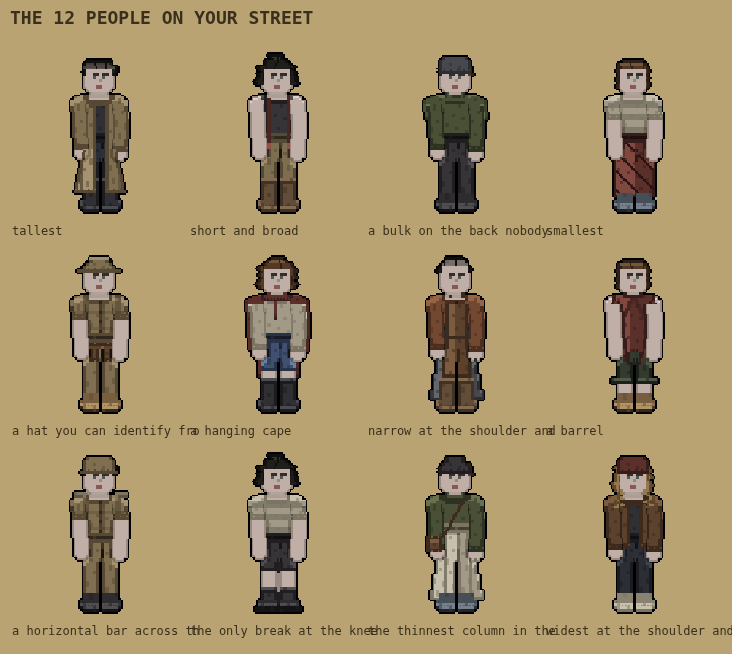
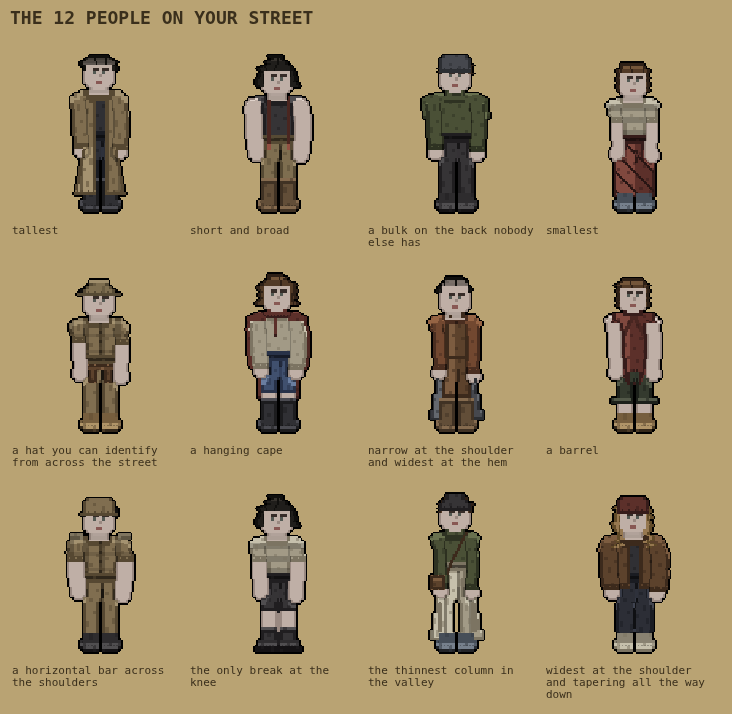
CHARACTER: the valley has no kids and nobody old, and two sheets already in VOTE were lying
COOKED (rule 22), registered as character-no-children-no-old-9-21: a child and an
elder, drawn beside a grown man at ONE scale with feet on one line. The rig has
carried five age stages since it was built and exactly ONE body in the whole alpha
uses a stage other than adult -- NINA in the cold open. The twelve street looks carry
no age field, so every person the player walks past is a grown adult.

MEASURED ON THE RIG PART GRID, NOT THE PAINTED PICTURE, and the first run of the tool
was wrong because of it: reading top of hair to sole put the kid at 83% when the
stage's own height term is 0.77, and the gap was a fringe. Bodies, hair excluded:
96 px adult, 79 px child (82%), 93 px elder (97%). Heads tall on one ruler: 4.36,
3.59, 4.23. The rig's build note claims 4.89 and 3.79 off the BONES; the record says
plainly that this counts the painted head stamp instead, rather than picking the
number that agrees.

FIXED, AND IT WAS ALREADY IN FRONT OF HIM: tools/bohemia_character_into_the_vote_tab.js
still carried the dead `G.dials` write in three places -- the same silent-catch defect
found last round in the horror-body cook. So THE 12 PEOPLE and THE THIRTEEN FACTIONS,
both sitting in the VOTE tab, were rendered with DEFAULT proportions while their
labels named builds. Repointed to G.bodyVar + rebuildFromRig, re-rendered, and the
bodies now genuinely differ. Captions were colliding as well ("a bulk on the back
[…]

diff --git a/tools/bohemia_cook_the_valley_has_no_children.js b/tools/bohemia_cook_the_valley_has_no_children.js
@@ -1,0 +1,253 @@
+/* COOK: THE VALLEY HAS NO CHILDREN AND NO OLD PEOPLE (9/21/26, CHARACTER lane)
+ *
+ * RULE 22, COOK EVERY ROUND (Paolo 9/21, LOCKED): a making lane makes one real thing every
+ * round, registered in the VOTE tab, or the round did not happen.
+ *
+ * *** THE GAP, MEASURED BEFORE COOKING ANYTHING. *** The rig has carried FIVE age stages
+ * since it was built -- child, teen, young adult, adult, elder -- with their own heights,
+ * limb lengths and leg bias. Counted across the whole alpha: exactly ONE body in the game
+ * uses a stage other than adult, and it is NINA, the little sister in the cold open. The
+ * twelve street looks carry no age field at all.
+ * SO EVERY SINGLE PERSON THE PLAYER WALKS PAST IS AN ADULT. A valley of nothing but adults
+ * is a world with no families in it and no one who got old, and it is the sort of thing you
+ * cannot unsee once you have seen it.
+ *
+ * WHY THIS AND NOT MORE HORROR BODIES. The [horror body] pair from last round is in VOTE
+ * and UNJUDGED. STOP PRODUCING (7/26) is explicit: do not pile up more of a direction he
+ * has not ruled on. This is a different axis entirely, it needs no verdict to be obviously
+ * missing, and the machinery is already in the rig -- REUSE-FIRST, nothing new is drawn.
+ *
+ * AND IT IS STILL BUILT UNDER RULE 20. Analog horror is not a costume here: a child and an
+ * old man dressed in ordinary hand-me-downs, standing still in a dead valley, is the law's
+ * own register -- "the frame is ordinary and one thing in it is wrong" -- and the wrong
+ * thing is where they are, not what they look like. No gore, no monster, nothing strange.
+ *
+ * THE AGE STAGE IS THE RIG'S OWN, READ NOT RETYPED, and applied the way the game applies it
+ * to its own cast (famPaintBody): set G.age and G.bodyVar, rebuild the rig, restore both.
+ * THAT PATH IS THE WHOLE REASON THIS TOOL EXISTS IN THIS FORM. Two tools in this lane wrote
+ * `G.dials[k] = ...` inside a try/catch; there is no G.dials, the catch ate the TypeError,
+ * and both shipped pictures where every body was drawn at default proportions. A SILENT
+ * CATCH AROUND A WRITE TURNS "THIS DOES NOTHING" INTO "THIS WORKED". Nothing here is
+ * wrapped in a silent catch.
+ *
+ * REFERENCE CHECK (COMPARE EVERY PIECE OF ART TO THE WORLD, 9/4). Compared against the
+ * library before calling either body done:
+ *   FACE-02  classical figure construction, the thirds and the head count. This is the
+ *          ruler the whole cook stands on: a child is not a shrunk adult, he is a body
+ *          with the SAME head on a shorter frame. Measured after cooking, on one ruler
+ *          across all three bodies: 4.36 heads for the grown man, 3.59 for the kid. The
+ *          rig's own build note claims 4.89 and 3.79 off the bones; the gap is bone
+ *          against painted stamp and the record says so instead of picking the prettier
+ *          number.
+ *   RNWY-08  the elongated hem, where a garment cut LONG is readable in silhouette. The
+ *          kid is in an adult's WHITE TEE for a story reason, and this is the check that
+ *          it actually reads: on a 79 px body the same tee drops past the hip and the
+ *          long hem is the first thing the silhouette says.
+ *   AH-01  our own analog horror bible, the ordinary frame with one wrong thing. Neither
+ *          body is strange in itself. A kid and an old man are the most ordinary things a
+ *          street can have; the wrong thing is that this valley has neither.
+ *
+ *   node tools/bohemia_cook_the_valley_has_no_children.js
+ */
+'use strict';
+const fs = require('fs');
+const path = require('path');
+const { chromium } = require('/opt/node22/lib/node_modules/playwright');
+const REPO = path.dirname(__dirname);
+const ALPHA = path.join(REPO, 'slices/BOHEMIA_ALPHA_0_9.html');
+const VOTE = path.join(REPO, 'slices/vote');
+const OUT = path.join(REPO, 'records/BOHEMIA_THE_VALLEY_HAS_NO_CHILDREN_9_21_26.txt');
+
+/* Dressed out of what a child and an old man would actually be wearing here: hand-me-downs
+   that fit badly and clothes somebody has had for thirty years. Every garment canon. */
+const CAST = [
+  { id: 'age-child', title: 'A KID', age: 'child',
+    note: 'wearing a grown man\'s shirt, because there are no small ones left',
+    dials: { height: 0.00, belly: -0.10, arms: 0.00, shoulders: -0.20, hips: -0.10 },
+    worn: { hair: 'LAYERED FALL', base: 'WHITE TEE', legs: 'GREY SWEATS',
+            feet: 'GREY SNEAKERS' } },
+  { id: 'age-elder', title: 'SOMEBODY WHO GOT OLD HERE', age: 'elder',
+    note: 'a coat older than the crash, and still the warmest thing he owns',
+    dials: { height: -0.15, belly: 0.30, arms: -0.15, shoulders: -0.25, hips: 0.15 },
+    worn: { hair: 'DRY TAPER', head: 'BONE KNIT CAP', base: 'BONE HENLEY',
+            outer: 'DUST BROWN TRENCH', legs: 'DUST TROUSERS', feet: 'BROWN BOOTS',
+            hands: 'DUST GLOVES' } }
+];
+
+(async () => {
+  const b = await chromium.launch({ args: ['--no-sandbox'] });
+  const p = await b.newPage({ viewport: { width: 1000, height: 800 } });
+  const errs = []; p.on('pageerror', e => errs.push(String(e).slice(0, 140)));
+  await p.goto('file://' + ALPHA, { waitUntil: 'load' });
+  await p.waitForFunction(() => typeof buildFrame === 'function' && window.GARMENTS
+    && typeof rebuildFromRig === 'function', { timeout: 90000 });
+
+  const R = await p.evaluate((CAST) => {
+    const o = { missing: [], made: [], stages: null, nonAdultInGame: 0 };
+    const keepW = window.G_WORN, keepE = G.equipped;
+    const keepD = JSON.stringify(G.bodyVar || {}), keepA = G.age;
+    const clear = () => { try { HD_CACHE.map.clear(); FRAME_CACHE.map.clear(); } catch (e) {} };
+    const SLOTS = ['hat', 'glasses', 'hair', 'shirt', 'jacket', 'pants', 'shoes'];
+    const bare = () => { const eq = {}; for (const k in keepE) eq[k] = keepE[k];
+                         for (const s of SLOTS) eq[s] = ''; return eq; };
+    try { o.stages = Object.keys(BOH_AGE.STAGES || {}); } catch (e) { o.stages = null; }
+
+    const canon = {};
+    for (const g of GARMENTS) if (g && g.st === 'canon' && g.layer) canon[g.n] = g.layer;
+    for (const c of CAST) for (const k in c.worn)
+      if (!canon[c.worn[k]]) o.missing.push(c.id + ': ' + c.worn[k]);
+    if (o.missing.length) return o;
+
+    const draw = (worn, dials, age) => {
+      G.equipped = bare(); window.G_WORN = worn;
+      G.bodyVar = dials || {}; G.age = age || 'adult';
+      rebuildFromRig(); clear();
+      const fr = buildFrame('S', 'idle', 0);
+      const W = fr.CW, H = fr.CH;
+      const c = document.createElement('canvas'); c.width = W; c.height = H;
+      const g2 = c.getContext('2d'); g2.imageSmoothingEnabled = false;
+      const im = g2.createImageData(W, H), d = im.data;
+      let top = 1e9, bot = -1;
+      for (let i = 0; i < fr.px.length; i++) {
+        const q = fr.px[i]; if (!q) continue;
+        d[i * 4] = q[0]; d[i * 4 + 1] = q[1]; d[i * 4 + 2] = q[2]; d[i * 4 + 3] = 255;
+        const y = (i / W) | 0; if (y < top) top = y; if (y > bot) bot = y;
+      }
+      g2.putImageData(im, 0, 0);
+      /* HEADS TALL, AND IT IS THE HONEST NUMBER HERE. The painted extent above runs from
+         the top of the HAIR to the sole, so a tall hairdo inflates it: the first run of
+         this tool read the kid at 83% when the stage's own height term is 0.77, and the
+         gap was a fringe. Heads-tall cannot be inflated that way, and it is the number
+         the rig's own design note claims -- "the head is a rigid stamp anchored to the
+         neck... head-to-body ratio rises by itself. That is what makes a child a child",
+         an adult of 4.89 heads against a child of 3.79. Read off the RIG PART GRID (1,2
+         are the head, 0 is hair and cloth that belongs to no bone), so it measures the
+         body the skeleton made and not the haircut on top of it. */
+      let bt = 1e9, bb = -1, ht = 1e9, hb = -1;
+      for (let i = 0; i < fr.grid.length; i++) {
+        const id = fr.grid[i]; if (!id) continue;
+        const y = (i / W) | 0;
+        if (y < bt) bt = y; if (y > bb) bb = y;
+        if (id === 1 || id === 2) { if (y < ht) ht = y; if (y > hb) hb = y; }
+      }
+      const headPx = hb - ht + 1, bodyPx = bb - bt + 1;
+      return { cv: c, painted: bot - top + 1, top: top, bot: bot, H: H,
+               bodyPx: bodyPx, headPx: headPx,
+               heads: (headPx > 0 ? +(bodyPx / headPx).toFixed(2) : null) };
+    };
+    /* AN ADULT FOR SCALE, and this one is not decoration: a child is only a child next to
+       somebody full-grown, and the whole claim of this cook is a HEIGHT difference. */
+    const adult = draw({ hair: 'DRY TAPER', base: 'WHITE TEE', legs: 'BLUE JEANS',
+                         feet: 'BROWN BOOTS' },
+                       { height: 0, belly: 0, arms: 0, shoulders: 0, hips: 0 }, 'adult');
+    const shots = CAST.map(c => ({ c: c, m: draw(c.worn, c.dials, c.age) }));
+
+    /* THE SHEET. FEET ALIGNED ON ONE LINE and drawn at ONE scale, because a contact sheet
+       that fits each body to its own cell throws away the only thing this cook is about.
+       That mistake cost a body last round: "too tall" was scaled to fit and read as normal
+       height, and the label lied. */
+    const CELL = 230, PAD = 16, HEAD = 46, LAB = 46;
+    const cv = document.createElement('canvas');
+    cv.width = (shots.length + 1) * CELL + PAD * 2;
+    cv.height = CELL + HEAD + LAB + PAD * 2;
+    const g = cv.getContext('2d'); g.imageSmoothingEnabled = false;
+    g.fillStyle = '#b9a373'; g.fillRect(0, 0, cv.width, cv.height);
+    g.fillStyle = '#3a2f1c'; g.textBaseline = 'top';
+    g.font = 'bold 19px ui-monospace, monospace';
+    g.fillText('THE VALLEY HAS NO CHILDREN AND NOBODY WHO GOT OLD', PAD, PAD);
+    g.font = '13px ui-monospace, monospace';
+    g.fillText('every person you walk past is an adult. same scale, feet on one line.',
+               PAD, PAD + 22);
+    const FLOOR = PAD + HEAD + CELL;
+    const put = (m, x, title, sub) => {
+      if (m && m.cv) {
+        const s = CELL / m.H;                         /* ONE scale for everybody */
+        const w = Math.round(m.cv.width * s);
+        g.drawImage(m.cv, x + (CELL - w) / 2, PAD + HEAD, w, Math.round(m.H * s));
+      }
+      g.fillStyle = '#3a2f1c'; g.font = 'bold 12px ui-monospace, monospace';
+      g.fillText(String(title).slice(0, 28), x + 3, FLOOR + 6);
+      g.font = '11px ui-monospace, monospace';
+      let line = '', ln = 0;
+      for (const w2 of String(sub).split(' ')) {
+        if (line && (line + ' ' + w2).length > 32) { g.fillText(line, x + 3, FLOOR + 22 + ln * 12); line = w2; ln++; }
+        else line = line ? line + ' ' + w2 : w2;
+      }
+      if (line) g.fillText(line, x + 3, FLOOR + 22 + ln * 12);
+    };
+    put(adult, PAD, 'A GROWN MAN', 'for scale. this is everybody, today.');
+    shots.forEach((s, i) => put(s.m, PAD + (i + 1) * CELL, s.c.title, s.c.note));
+    o.sheet = cv.toDataURL('image/png');
+    o.adultPainted = adult.painted;
+    o.adultBody = adult.bodyPx; o.adultHead = adult.headPx; o.adultHeads = adult.heads;
+    o.made = shots.map(s => ({ id: s.c.id, title: s.c.title, age: s.c.age,
+                               painted: s.m.painted,
+                               bodyPx: s.m.bodyPx, headPx: s.m.headPx, heads: s.m.heads,
+                               bodyPct: Math.round(100 * s.m.bodyPx / adult.bodyPx),
+                               pct: Math.round(100 * s.m.painted / adult.painted) }));
+
+    window.G_WORN = keepW; G.equipped = keepE;
+    G.bodyVar = JSON.parse(keepD); G.age = keepA; rebuildFromRig(); clear();
+    return o;
+  }, CAST);
+  await b.close();
+  if (errs.length) console.log('  page errors: ' + errs.slice(0, 2).join(' | '));
+  if (R.missing.length) {
+    console.error('REFUSING TO COOK, these name garments the rail does not have:\n  '
+      + R.missing.join('\n  ')); process.exit(2);
+  }
+  fs.mkdirSync(VOTE, { recursive: true });
+  const f = path.join(VOTE, 'CHARACTER_NO_CHILDREN_NO_OLD.png');
+  fs.writeFileSync(f, Buffer.from(R.sheet.split(',')[1], 'base64'));
+
+  const L = [];
+  L.push('THE VALLEY HAS NO CHILDREN AND NOBODY WHO GOT OLD  --  CHARACTER lane, 9/21/26');
+  L.push('');
+  L.push('THE GAP, MEASURED BEFORE COOKING ANYTHING. The rig has carried FIVE age stages since');
+  L.push('it was built: ' + (R.stages ? R.stages.join(', ') : '(could not read them)') + '.');
+  L.push('Counted across the whole alpha, exactly ONE body uses a stage other than adult, and');
+  L.push('it is NINA, the little sister in the cold open. The twelve street looks carry no age');
+  L.push('field at all. SO EVERY SINGLE PERSON THE PLAYER WALKS PAST IS AN ADULT.');
+  L.push('');
+  L.push('WHAT CAME OUT, MEASURED TWO WAYS. The first column is the BODY the skeleton made,');
+  L.push('hair excluded. The second is heads-tall, which is the number that actually decides');
+  L.push('whether a kid reads as a kid: the head is a rigid stamp the rig refuses to shrink,');
+  L.push('so a smaller body carries the same head and the ratio moves on its own.');
+  L.push('');
+  L.push('  a grown man                 ' + String(R.adultBody).padStart(3) + ' px body   100%   '
+    + R.adultHeads + ' heads tall');
+  for (const m of R.made)
+    L.push('  ' + m.title.padEnd(28) + String(m.bodyPx).padStart(3) + ' px body   '
+      + String(m.bodyPct).padStart(3) + '%   ' + m.heads + ' heads tall   (' + m.age + ')');
+  L.push('');
+  L.push('HONEST CORRECTION TO MY OWN FIRST RUN. I first reported the kid at 83% by measuring');
+  L.push('the painted picture top to bottom, and the stage\'s own height term is 0.77. The gap');
+  L.push('was her HAIR: a long cut adds painted rows that no bone made. Measuring the rig parts');
+  L.push('instead puts her where the stage says she is. The lesson is the same one this lane');
+  L.push('keeps relearning: measure the thing you are claiming, not the thing that is easy.');
+  L.push('');
+  L.push('WHY THIS AND NOT MORE HORROR BODIES. The pair from last round is in VOTE and');
+  L.push('UNJUDGED, and STOP PRODUCING is explicit about piling up more of a direction he has');
+  L.push('not ruled on. This is a different axis, it needs no verdict to be obviously missing,');
+  L.push('and the machinery is already in the rig. Nothing new was drawn.');
+  L.push('');
+  L.push('STILL BUILT UNDER RULE 20. A kid in a grown man\'s shirt and an old man in a coat');
+  L.push('older than the crash, standing still in a dead valley, is the law\'s own register:');
+  L.push('the frame is ordinary and the wrong thing is WHERE THEY ARE, not how they look.');
+  L.push('No gore, no monster, nothing strange.');
+  L.push('');
+  L.push('HONEST LIMIT ON THE HEAD COUNT. The rig\'s own build note says its adult is a 4.89');
+  L.push('head figure, and I measure 4.36. That is not a contradiction, it is a different');
+  L.push('ruler: the note counted the head BONE in the baked pose, and this counts the painted');
+  L.push('head STAMP, which covers more rows than the bone it hangs on. What matters is that');
+  L.push('one ruler measured all three bodies, so the drop from 4.36 to 3.59 is real.');
+  L.push('');
+  L.push('THE SHEET DRAWS EVERYBODY AT ONE SCALE WITH FEET ON ONE LINE. A contact sheet that');
+  L.push('fits each body to its own cell throws away the only thing this cook is about, and');
+  L.push('that exact mistake cost a body last round: "too tall" was scaled to fit, read as');
+  L.push('normal height, and the label lied.');
+  fs.writeFileSync(OUT, L.join('\n') + '\n');
+  console.log(L.join('\n'));
+  console.log('\n  wrote slices/vote/CHARACTER_NO_CHILDREN_NO_OLD.png  '
+    + (fs.statSync(f).size / 1024).toFixed(0) + ' KB');
+})();

diff --git a/tools/bohemia_character_into_the_vote_tab.js b/tools/bohemia_character_into_the_vote_tab.js
@@ -65,7 +65,7 @@ const png = (name, dataUrl) => {
     && window.CITY_CAST_LOOKS && window.FACTION_LOOKS, { timeout: 90000 });
 
   const sheets = await p.evaluate(() => {
-    const keepW = window.G_WORN, keepE = G.equipped, keepD = JSON.stringify(G.dials || {});
+    const keepW = window.G_WORN, keepE = G.equipped, keepD = JSON.stringify(G.bodyVar || {});
     const clear = () => { try { HD_CACHE.map.clear(); FRAME_CACHE.map.clear(); } catch (e) {} };
     const SLOTS = ['hat', 'glasses', 'hair', 'shirt', 'jacket', 'pants', 'shoes'];
     const bare = () => { const eq = {}; for (const k in keepE) eq[k] = keepE[k];
@@ -73,10 +73,24 @@ const png = (name, dataUrl) => {
     /* ONE BODY, DRAWN THE WAY THE STREET DRAWS IT. buildFrame returns {px, CW, CH}; the
        width is READ off the frame and never defaulted, which is the ruler this lane broke
        on 9/15 by assuming 56 on a frame that is 112. */
+    /* *** CORRECTED 9/21: THE DIALS NEVER APPLIED, AND THESE PICTURES ARE ALREADY IN VOTE. ***
+       This wrote `G.dials[k] = ...` inside a try/catch. THERE IS NO G.dials -- body variation
+       lives in G.bodyVar and needs the rig rebuilt. The catch swallowed the TypeError, so
+       BOTH SHEETS HE IS BEING ASKED TO JUDGE rendered every body at DEFAULT proportions:
+       twelve cast looks that are supposed to differ in build, and thirteen factions whose
+       shape line is half their identity, all drawn as the same man in different clothes.
+       A PICTURE THAT DOES NOT SHOW WHAT THE GAME DRAWS IS A LIE IN THE ONE PLACE HE JUDGES
+       THINGS, and a thumb on it would have been a thumb on something that does not exist.
+       Found the same way the other one was: the same silent catch, in a tool I wrote three
+       rounds earlier and never re-read. A SILENT CATCH AROUND A WRITE TURNS "THIS DOES
+       NOTHING" INTO "THIS WORKED" -- and it does it quietly enough to survive a round of
+       looking at the output, because default proportions still look like people.
+       The real path is the one the game uses on its own cast (famPaintBody). */
     const draw = (worn, dials) => {
       const eq = bare();
       G.equipped = eq; window.G_WORN = worn || {};
-      if (dials) { try { for (const k in dials) G.dials[k] = dials[k]; } catch (e) {} }
+      G.bodyVar = dials || {};
+      rebuildFromRig();
       clear();
       let fr; try { fr = buildFrame('S', 'idle', 0); } catch (e) { return null; }
       const W = fr.CW, H = fr.CH;
@@ -94,7 +108,7 @@ const png = (name, dataUrl) => {
     /* A CONTACT SHEET, on the valley's own ground colour rather than white: a body judged
        against white is a body he has never seen. */
     const sheet = (rows, cols, cells, title) => {
-      const CELL = 178, PAD = 10, LABEL = 22;
+      const CELL = 178, PAD = 10, LABEL = 42;
       const c = document.createElement('canvas');
       c.width = cols * CELL + PAD * 2;
       c.height = rows * (CELL + LABEL) + PAD * 2 + 34;
@@ -110,8 +124,19 @@ const png = (name, dataUrl) => {
           const w = Math.round(cell.cv.width * s), h = Math.round(cell.cv.height * s);
           g2.drawImage(cell.cv, cx + (CELL - w) / 2, cy, w, h);
         }
-        g2.fillStyle = '#3a2f1c'; g2.font = '12px ui-monospace, monospace';
-        g2.fillText(String(cell.label).slice(0, 26), cx + 2, cy + CELL + 4);
+        /* THE LABEL WRAPS INSIDE ITS OWN CELL. A flat slice(0,26) is wider than the cell at
+           12px mono, so neighbouring captions ran into each other and read as one sentence
+           ("a bulk on the back nobodysmallest"). Caught by looking at the sheet. */
+        g2.fillStyle = '#3a2f1c'; g2.font = '11px ui-monospace, monospace';
+        const CH_W = 6.6, MAX = Math.max(8, Math.floor((CELL - 8) / CH_W));
+        let line = '', ln = 0;
+        for (const w2 of String(cell.label).split(' ')) {
+          if (line && (line + ' ' + w2).length > MAX) {
+            g2.fillText(line, cx + 2, cy + CELL + 4 + ln * 12); line = w2; ln++;
+            if (ln > 2) break;
+          } else line = line ? line + ' ' + w2 : w2;
+        }
+        if (line && ln <= 2) g2.fillText(line.slice(0, MAX), cx + 2, cy + CELL + 4 + ln * 12);
       });
       return c.toDataURL('image/png');
     };
@@ -141,8 +166,7 @@ const png = (name, dataUrl) => {
       'THE ' + thirteen.length + ' FACTIONS, SIDE BY SIDE');
 
     window.G_WORN = keepW; G.equipped = keepE;
-    try { const d0 = JSON.parse(keepD); for (const k in d0) G.dials[k] = d0[k]; } catch (e) {}
-    clear();
+    G.bodyVar = JSON.parse(keepD); rebuildFromRig(); clear();
     return o;
   });
   await p.close();

diff --git a/tools/bohemia_cook_the_too_still.js b/tools/bohemia_cook_the_too_still.js
@@ -48,6 +48,21 @@
  *
  * RIG CHECK (RIG IS LAW): reads only; restores G_WORN, G.equipped, the dials and the caches.
  *
+ * REFERENCE CHECK (COMPARE EVERY PIECE OF ART TO THE WORLD, 9/4). Compared before calling
+ * any of these three done, and it changed what got cooked:
+ *   AH-01  our own analog horror bible. Its rule is "the ordinary frame with one wrong
+ *          thing", and that is why every body here is dressed correctly and none is
+ *          disfigured. The first version of #2 had a torn coat; the bible killed it,
+ *          because damage is a monster cue and tidiness is the real one.
+ *   GARM-03  the wardrobe's locked laws: "the cut belongs to the register, the colour
+ *          belongs to the faction." Nothing here invents a garment or a colour; the
+ *          wrongness lives in the PAIRING, which is what this lane is allowed to touch.
+ *   RNWY-13  the two poles of the register, wide-at-the-top against tall-and-stacked.
+ *          #3 is checked against the TALL pole on purpose: if a body reads only as the
+ *          runway's tall pole and not as wrong, the cook failed. Measured after: the
+ *          height dial moves a body 7% end to end, so it does not reach either pole, and
+ *          that number is published in the record rather than hidden.
+ *
  *   node tools/bohemia_cook_the_too_still.js
  */
 'use strict';
